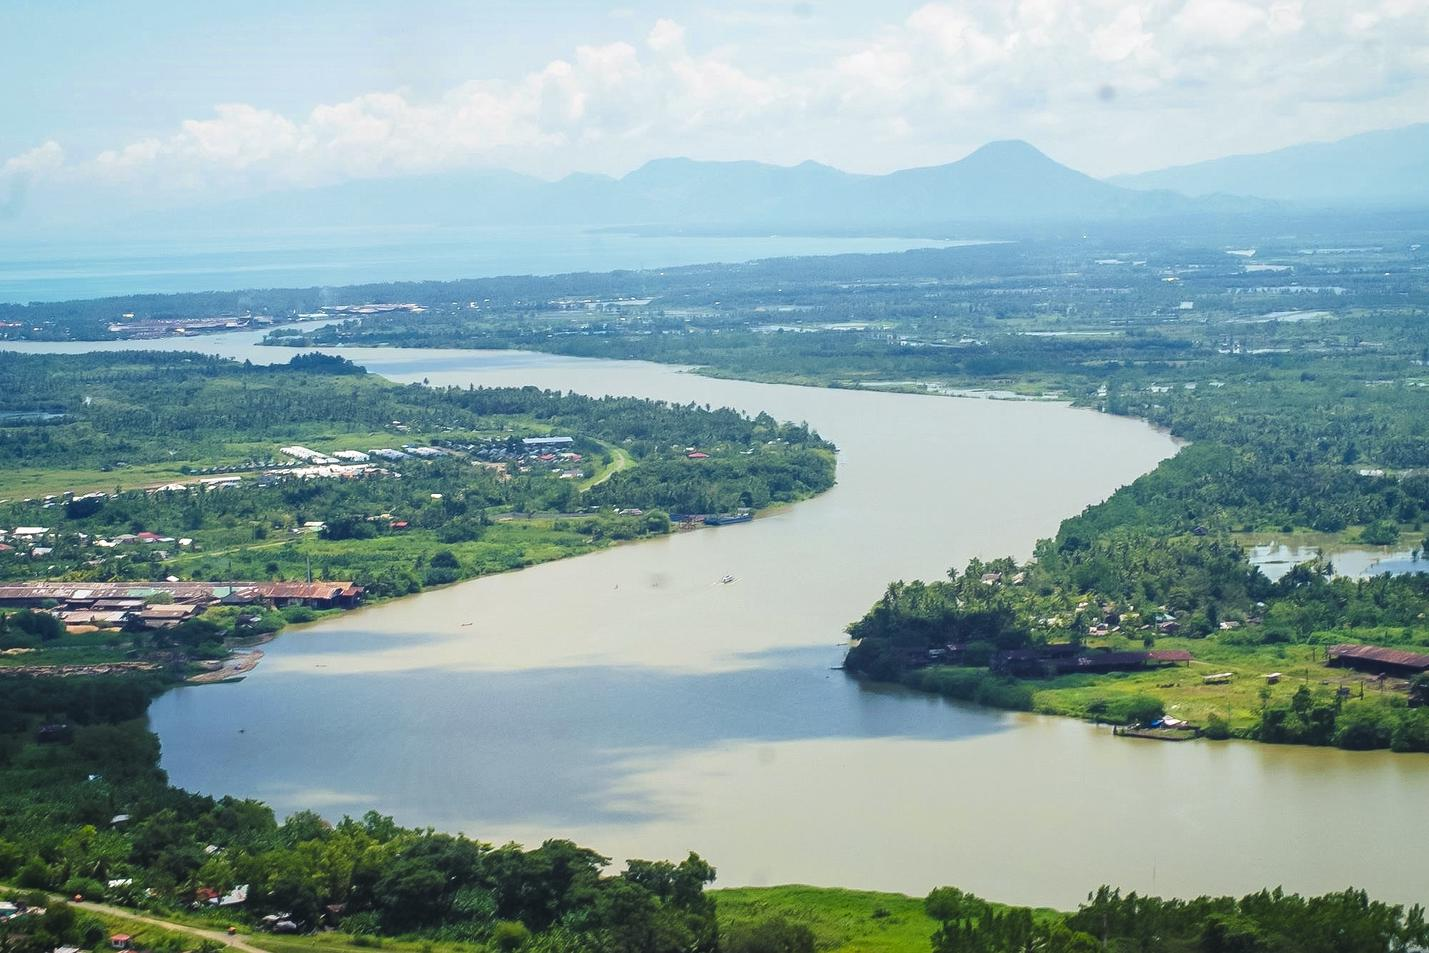
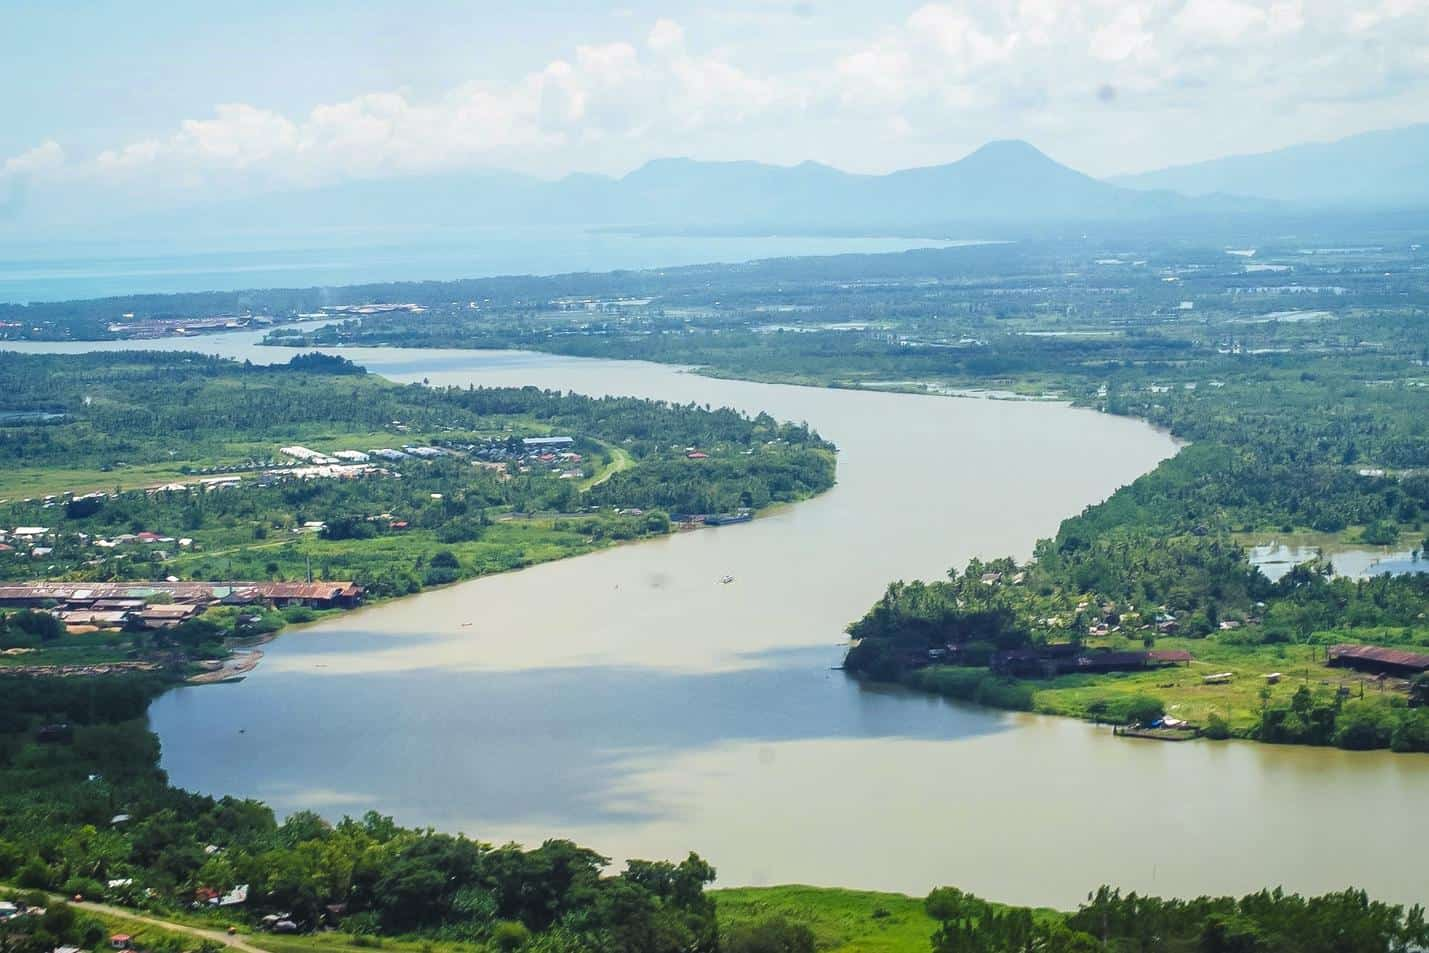
files updated

Changed region(s): [[0.1847, 0.4869, 0.2155, 0.5173]]

diff --git a/wwr/trips.html b/wwr/trips.html
@@ -37,7 +37,7 @@
                     <td ><b>Trips</b> <br>7:00 <br> 9:30 <br> 12:00 <br> 2:30</td>
                 </tr>
                 <tr>
-                    <td ><img class="trips" src="images/tinipak-rizal-river.png" alt="tinipak-rizal-river"></td>
+                    <td ><img class="trips" src="images/tinipak-rizal-river.jpg" alt="tinipak-rizal-river"></td>
                     <td > <b>Tinipak Rizal river </b> <br> <br>Lorem ipsum dolor, sit amet consectetur adipisicing elit. Excepturi ullam dolore delectus repellendus quam tempora nisi possimus quaerat deserunt illum!</td>
                     <td ><b>Trips</b> <br> 9:00 <br> 12:00 <br> 3:00</td>
                 </tr>
